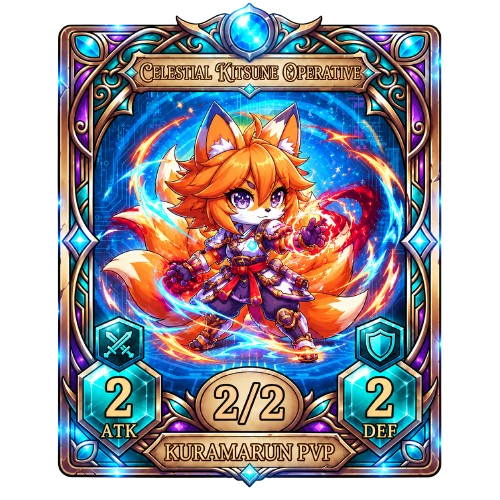
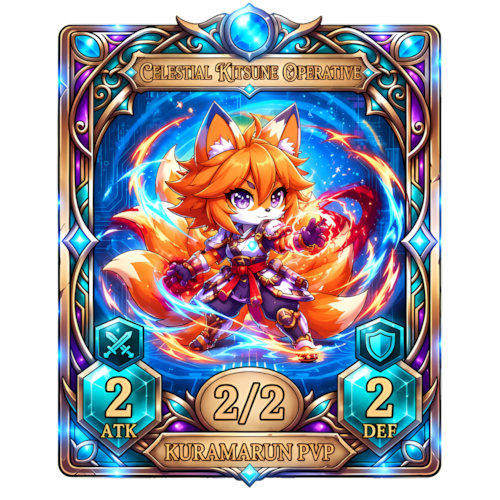
feat: uniform card-image size in the hand + re-sync card art
All 29 card images are confirmed present and re-synced (CARDS/*,
CARDS_NO_USE additions). In pvp_dashboard.py, hand-card images are now
a fixed 160x240 (107x160 on mobile) with object-fit: contain (keeps
every art uncropped despite differing source aspect ratios) and a
subtle frame background, instead of the old max-height/width:auto that
let each card render at a different size. Each full card container
(image/name/info/zone/play) now stretches to match its row's tallest
sibling so the Jugar button lines up at the same height across cards.

Changed region(s): [[0.09, 0.0, 0.9, 0.99]]

diff --git a/engine/pvp_dashboard.py b/engine/pvp_dashboard.py
@@ -1001,19 +1001,25 @@ st.markdown(
     [data-testid="stSidebarCollapseButton"] {
         display: none !important;
     }
-    /* Mano de cartas: imágenes algo más grandes, columnas de ancho fijo
-       (no estiradas a todo el contenedor) y centradas como grupo en vez de
+    /* Mano de cartas: ancho de columna fijo, imágenes TODAS al mismo
+       tamaño exacto (160x240, object-fit: contain para no deformar el
+       arte aunque cada PNG traiga su propio recorte/proporción — con
+       "cover" se vería bien pero recortaría parte del dibujo en las
+       cartas que no encajen justo en 2:3), centradas como grupo en vez de
        repartidas a los lados con huecos en blanco. */
     [class*="st-key-battle_hand"] img {
-        max-height: 225px !important;
-        width: auto !important;
+        width: 160px !important;
+        height: 240px !important;
         max-width: 100% !important;
         object-fit: contain;
+        background: rgba(255, 255, 255, 0.04);
+        border-radius: 8px;
         display: block;
         margin: 0 auto;
     }
     [class*="st-key-battle_hand"] [data-testid="stHorizontalBlock"] {
         justify-content: center !important;
+        align-items: stretch !important;
         flex-wrap: wrap;
         gap: 1.5rem !important;
     }
@@ -1022,6 +1028,21 @@ st.markdown(
         width: 240px !important;
         max-width: 240px !important;
         min-width: 180px;
+    }
+    /* Cada carta completa (imagen + nombre + info + zona + jugar) a la
+       misma altura que sus vecinas de la fila (align-items:stretch arriba
+       iguala las columnas; esto reparte ese alto dentro de cada carta para
+       que el botón "Jugar" quede siempre a la misma altura entre cartas,
+       tengan o no línea de habilidad). */
+    [class*="st-key-battle_hand"] [data-testid="stColumn"] [data-testid="stVerticalBlock"] {
+        height: 100%;
+    }
+    [class*="st-key-card_glow_playable"],
+    [class*="st-key-card_glow_locked"] {
+        display: flex !important;
+        flex-direction: column;
+        justify-content: space-between;
+        height: 100%;
     }
     .card-name {
         font-weight: 600;
@@ -1548,7 +1569,8 @@ st.markdown(
             min-width: 130px !important;
         }
         [class*="st-key-battle_hand"] img {
-            max-height: 160px !important;
+            width: 107px !important;
+            height: 160px !important;
         }
         [class*="st-key-battle_hand"] .stButton > button {
             font-size: 0.72rem !important;
